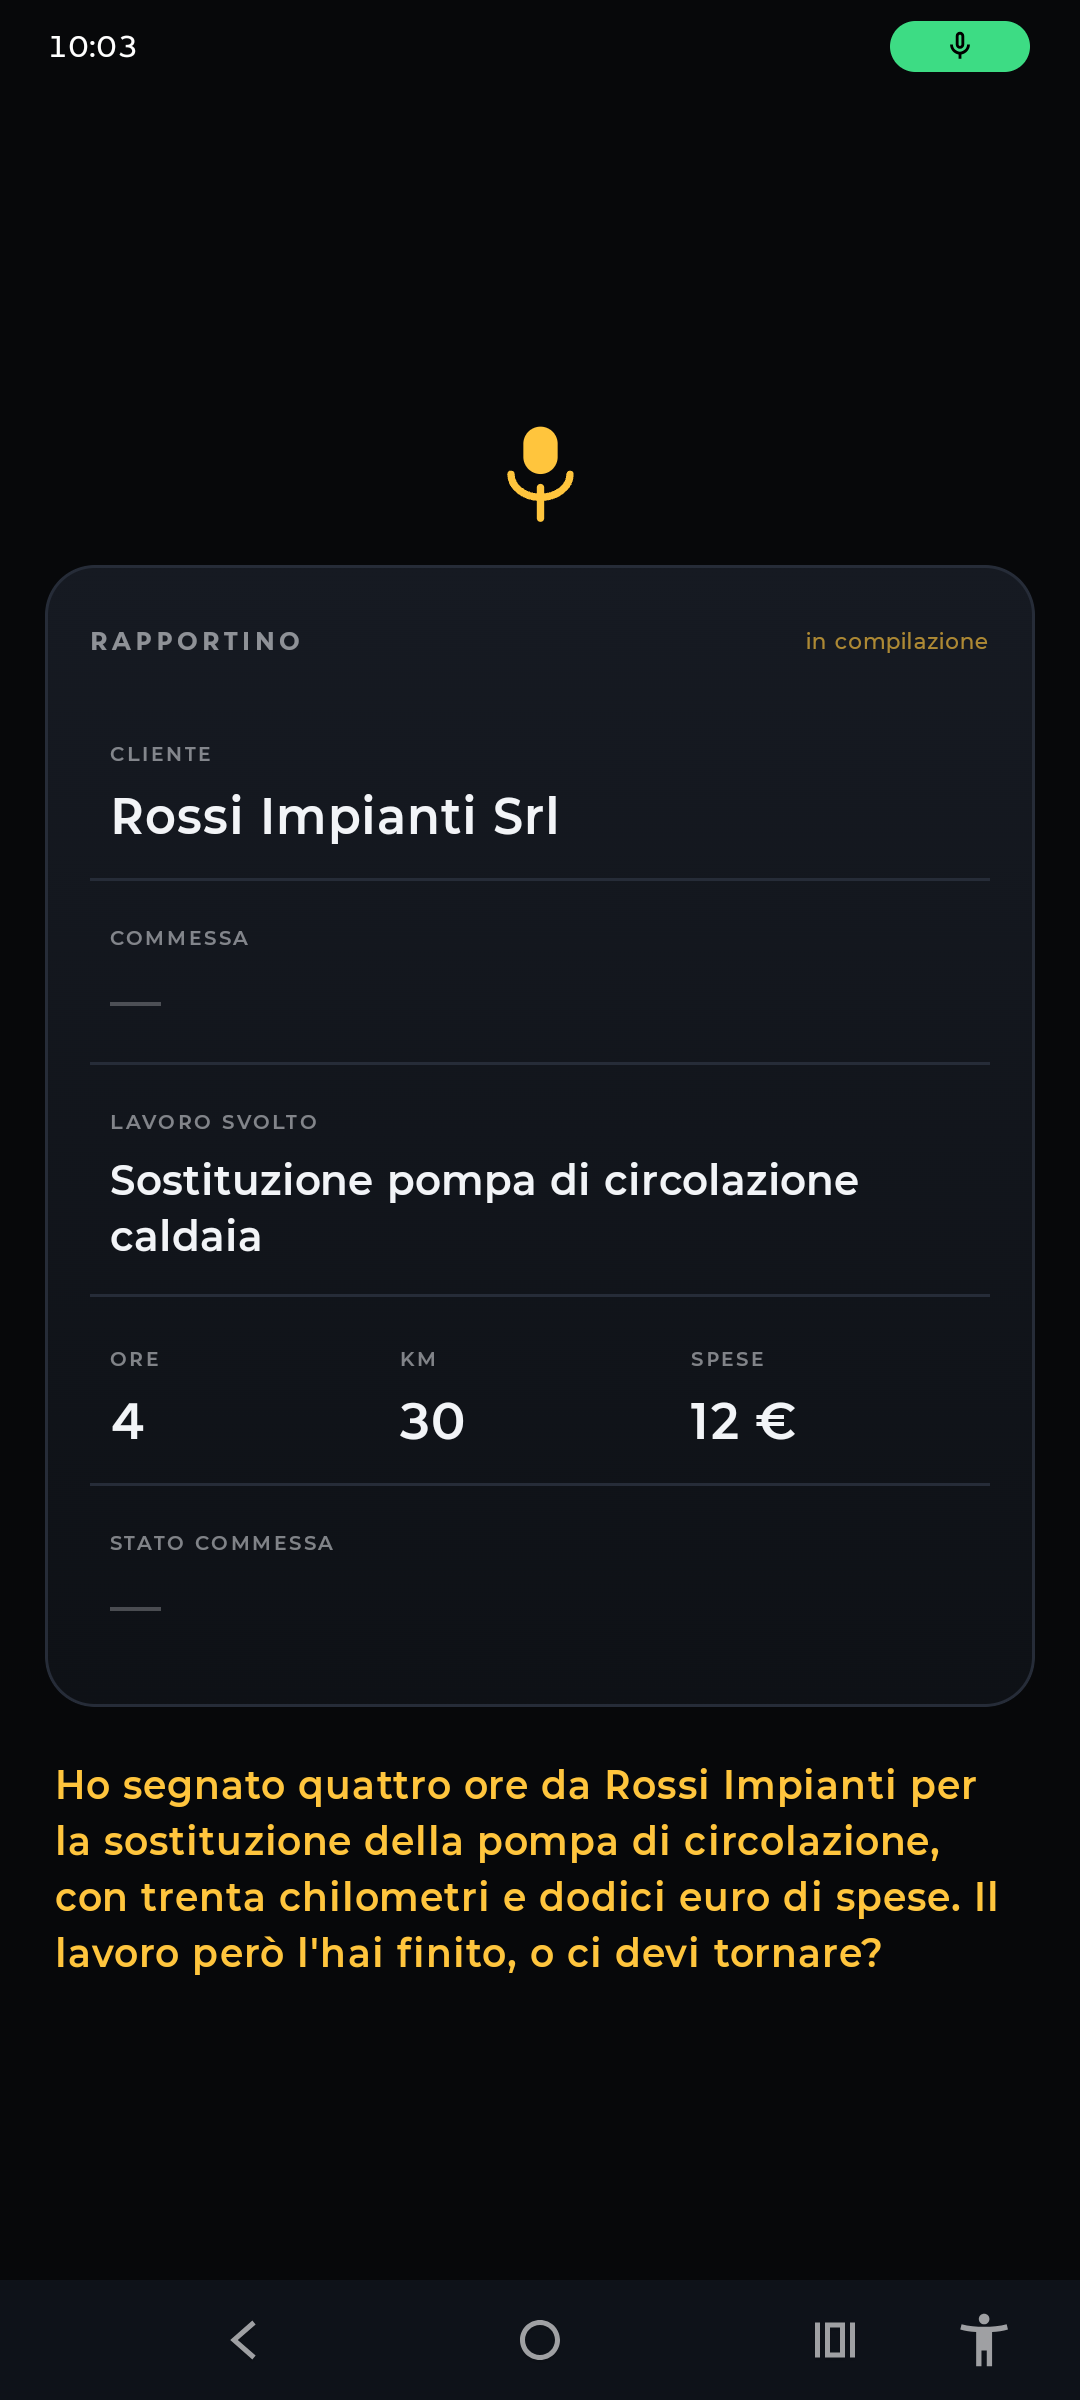
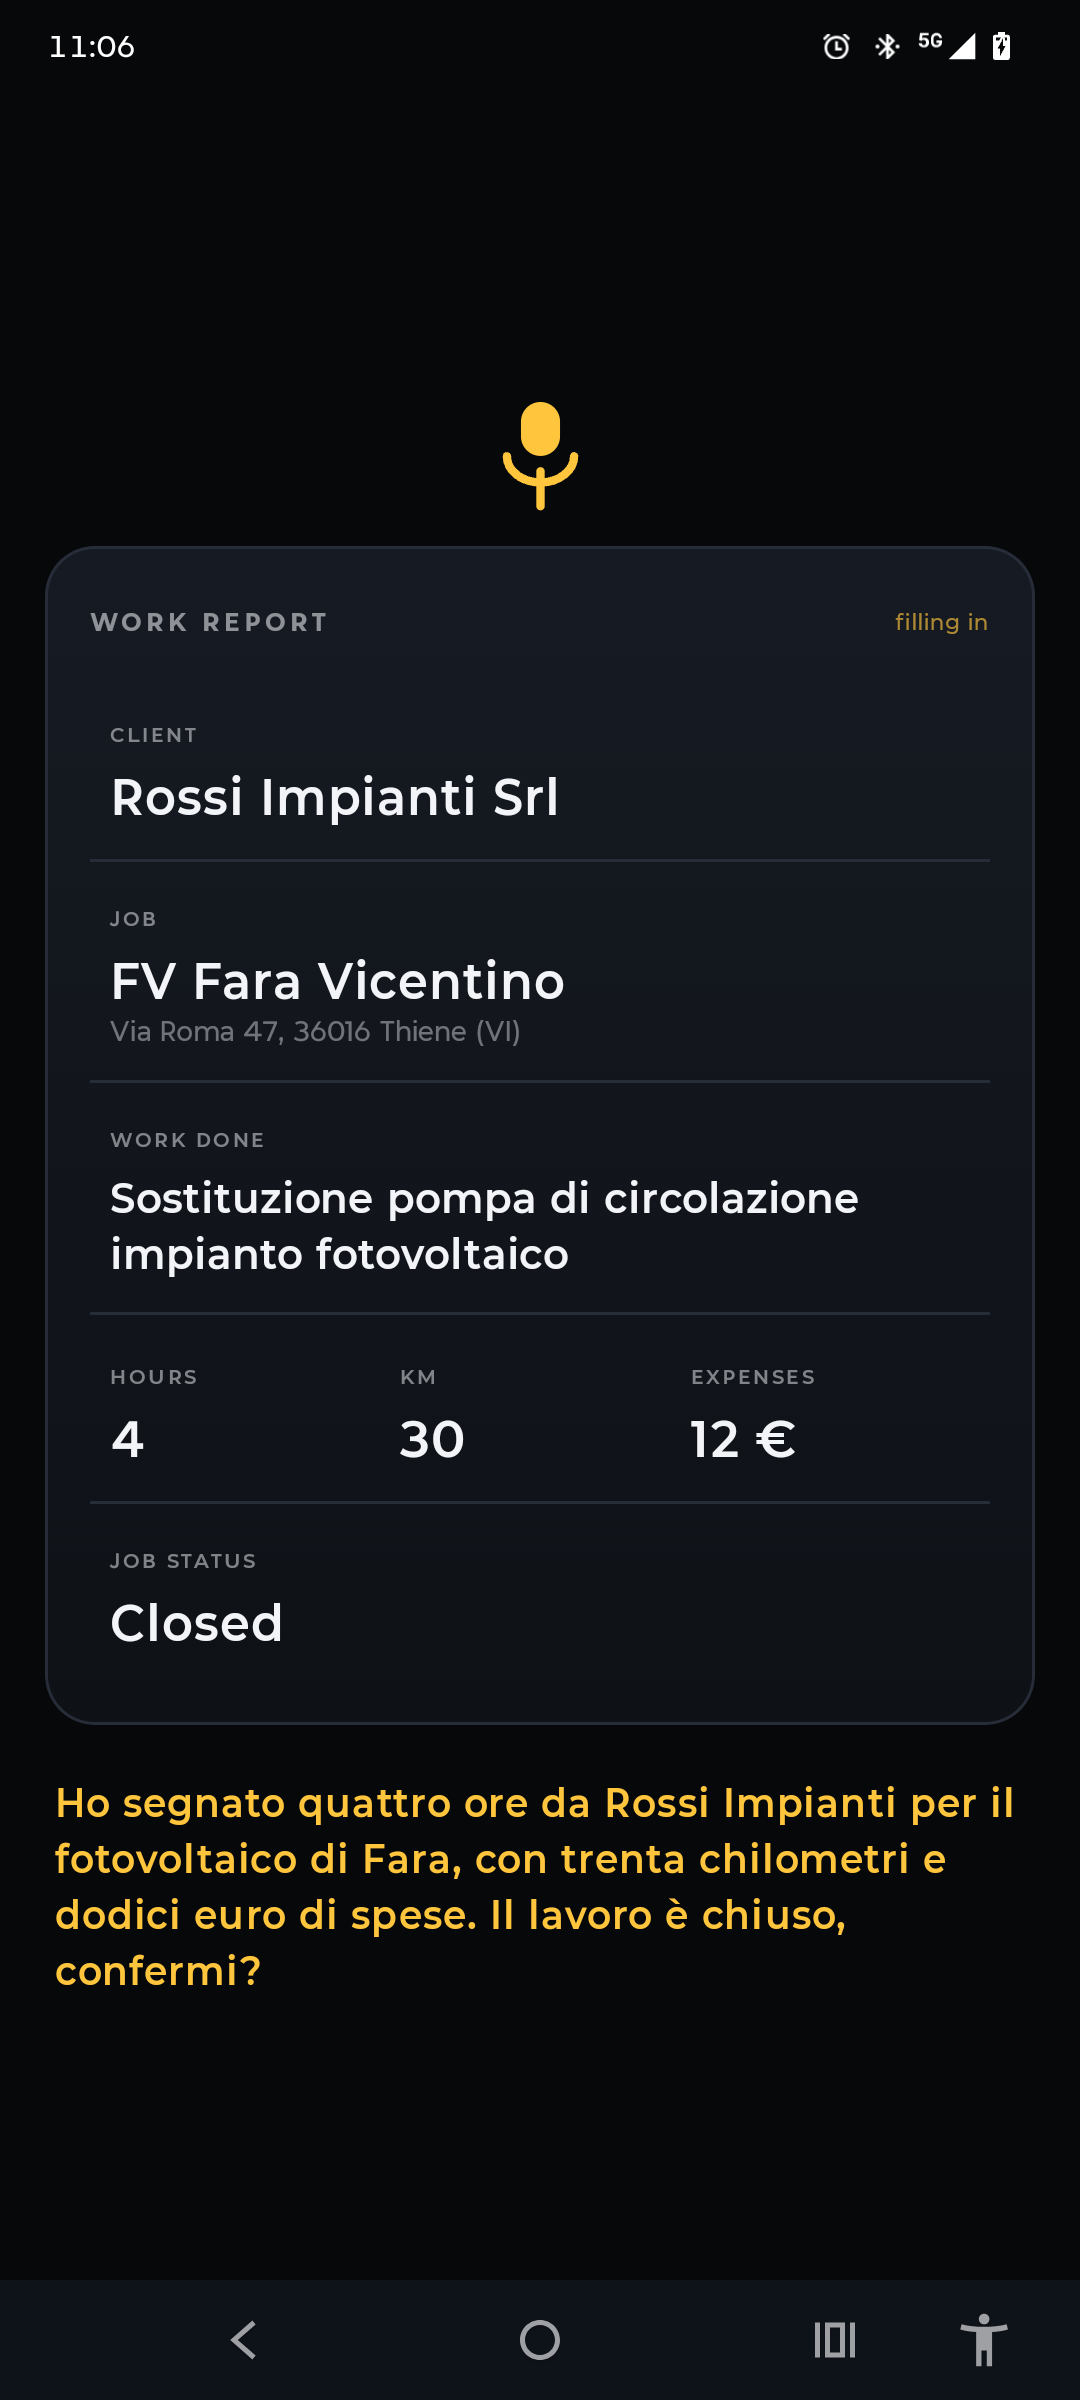
Never fall back on the nearest job, and read the card in English
Two things.

The model, when the job a technician names is not in the list, sometimes
settled for the closest one that was. That is the worst mistake it can
make, because it is invisible: nobody is looking at the screen, they hear
ok and move on, and at the end of the month those hours sit against a job
they never went to.

So the model now also reports commessaDetta, the job in the technician's
own words, and the code checks it shares a word with the job that was
chosen. Boiler maintenance and FV Fara Vicentino share nothing, so that is
a new job and it gets opened and announced. The photovoltaic at Fara and
FV Fara Vicentino share Fara, so that is the same job and nothing happens.
Opening it beats asking: new jobs turn up constantly and a question every
time is a question too many, and cancelling by voice already works.

Second, the card labels now live in strings.xml with an English
translation, so the report reads WORK REPORT, CLIENT, JOB, HOURS on an
English phone. Only the labels. Wisper still speaks Italian and the
dictation stays pinned to it-IT in code, because the technicians it was
built for speak Italian and the phone language should not change what
comes out of the speaker.

Screenshots retaken in English.

diff --git a/app/src/main/java/eu/stgm/wisper/GiroWisper.kt b/app/src/main/java/eu/stgm/wisper/GiroWisper.kt
@@ -522,6 +522,20 @@ class GiroWisper(
                 if (turnoDiChiusura) risposta.dati.copy(statoCommessa = null)
                 else risposta.dati
             val commessaPrima = _rapportino.value.commessa
+
+            // Il modello, quando non trova il lavoro che gli hai nominato, a
+            // volte ripiega sulla commessa piu' simile fra quelle aperte. Se
+            // le parole del tecnico e quella commessa non hanno niente in
+            // comune, quel lavoro e' nuovo e va aperto: non si accetta il
+            // ripiego.
+            val ripiego = commessaDiRipiego(patch, commessaPrima, risposta.commessaDetta)
+            if (ripiego != null) {
+                _rapportino.value = _rapportino.value.aggiorna(patch.copy(commessa = null))
+                registro("commessa_ripiego_rifiutato", ripiego)
+                creaCommessa(risposta.copy(nuovoNome = ripiego, frase = ""))
+                return@launch
+            }
+
             _rapportino.value = _rapportino.value.aggiorna(patch)
 
             when (risposta.azione) {
@@ -607,7 +621,14 @@ class GiroWisper(
             _rapportino.value = _rapportino.value.aggiorna(Rapportino(commessa = creata.id))
             registro("commessa_creata", "${creata.id} ${creata.descrizione}")
             annunciate += "${creata.descrizione} come nuova commessa"
-            rispondi("Ok, aggiungo ${creata.descrizione} come nuova commessa. ${risposta.frase}") {
+            // La coda della frase la porta il modello, tranne quando e' stato
+            // proprio lui a sbagliare commessa: in quel caso il suo seguito
+            // nomina il lavoro che avevamo appena scartato, e ci si sentirebbe
+            // dire due nomi diversi nella stessa frase. Allora la scriviamo noi.
+            val coda = risposta.frase.trim().ifBlank {
+                _rapportino.value.domandaSuCosaManca()?.let { "$it." } ?: "Altro, o salvo?"
+            }
+            rispondi("Ok, aggiungo ${creata.descrizione} come nuova commessa. $coda") {
                 ascolta()
             }
         } catch (e: Exception) {
@@ -767,6 +788,47 @@ class GiroWisper(
                 registro("commessa_non_aggiornata", e.message ?: "sconosciuto")
             }
         }
+    }
+
+    /**
+     * La descrizione da aprire come commessa nuova, quando il modello ha
+     * ripiegato su una gia' esistente che non c'entra. Null se e' tutto a posto.
+     *
+     * IL CASO, visto sul telefono l'08/08. Dicendo "la commessa e' la
+     * manutenzione della caldaia", che nel foglio non c'e', il modello ha
+     * scritto M001, cioe' FV Fara Vicentino, l'unica aperta per quel cliente.
+     * E' il tipo di errore peggiore che possa fare, perche' e' invisibile: il
+     * tecnico non guarda lo schermo, sente "ok" e va avanti, e a fine mese
+     * quelle ore risultano su un lavoro dove non ha mai messo piede.
+     *
+     * COME SI RICONOSCE. Non serve capire il senso: bastano le parole. Il
+     * modello riporta in "commessaDetta" come il tecnico ha chiamato il lavoro,
+     * e si guarda se quelle parole e la descrizione della commessa scelta ne
+     * hanno almeno una in comune. "Quella dei pannelli a Fara" e "FV Fara
+     * Vicentino" condividono Fara: e' la stessa. "Manutenzione della caldaia" e
+     * "FV Fara Vicentino" non condividono niente: e' un altro lavoro.
+     *
+     * COSA SI FA. Si apre la commessa nuova, dicendolo ad alta voce. Non si
+     * chiede: chiedere vuol dire un turno in piu' a ogni lavoro nuovo, e i
+     * lavori nuovi capitano di continuo. Se ha sbagliato lui, dice "cancella
+     * tutto" e si ricomincia.
+     *
+     * Vale solo quando la commessa CAMBIA in questo turno e solo se il tecnico
+     * l'ha davvero nominata: se non ha detto niente sul lavoro, il modello che
+     * mette l'unica commessa aperta del cliente sta facendo la cosa giusta.
+     */
+    private fun commessaDiRipiego(
+        patch: Rapportino,
+        prima: String?,
+        detta: String?,
+    ): String? {
+        val codice = patch.commessa?.trim()?.takeIf { it.isNotBlank() } ?: return null
+        if (codice == prima) return null
+        val nome = detta?.trim()?.takeIf { it.isNotBlank() } ?: return null
+        // Se il codice non esiste ci pensa gia' la creazione automatica al
+        // salvataggio: qui interessa solo il ripiego su una commessa VERA.
+        val vera = _anagrafiche.value.descrizioneCommessa(codice) ?: return null
+        return if (parlaDi(nome, vera)) null else nome
     }
 
     /**

diff --git a/app/src/main/java/eu/stgm/wisper/ui/FormRapportino.kt b/app/src/main/java/eu/stgm/wisper/ui/FormRapportino.kt
@@ -25,10 +25,13 @@ import androidx.compose.ui.Modifier
 import androidx.compose.ui.draw.clip
 import androidx.compose.ui.graphics.Brush
 import androidx.compose.ui.graphics.Color
+import androidx.compose.ui.res.stringResource
 import androidx.compose.ui.text.font.FontWeight
 import androidx.compose.ui.unit.dp
 import androidx.compose.ui.unit.sp
+import eu.stgm.wisper.R
 import eu.stgm.wisper.rapportino.Rapportino
+import eu.stgm.wisper.rapportino.StatoCommessa
 import kotlinx.coroutines.delay
 
 /**
@@ -83,14 +86,14 @@ fun FormRapportino(
                 horizontalArrangement = Arrangement.SpaceBetween,
             ) {
                 Text(
-                    "RAPPORTINO",
+                    stringResource(R.string.scheda_titolo),
                     color = Bianco.copy(alpha = 0.55f),
                     fontSize = 12.sp,
                     fontWeight = FontWeight.Bold,
                     letterSpacing = 2.4.sp,
                 )
                 Text(
-                    "in compilazione",
+                    stringResource(R.string.scheda_in_corso),
                     color = Giallo.copy(alpha = 0.65f),
                     fontSize = 11.sp,
                     letterSpacing = 0.6.sp,
@@ -99,33 +102,52 @@ fun FormRapportino(
 
             Spacer(Modifier.height(16.dp))
 
-            RigaCampo("Cliente", rapportino.cliente)
+            RigaCampo(stringResource(R.string.campo_cliente), rapportino.cliente)
             Divisore()
             RigaCampo(
-                "Commessa",
+                stringResource(R.string.campo_commessa),
                 commessaLeggibile ?: rapportino.commessa,
                 sotto = indirizzoCommessa,
             )
             Divisore()
-            RigaCampo("Lavoro svolto", rapportino.descrizione, alto = true)
+            RigaCampo(
+                stringResource(R.string.campo_lavoro),
+                rapportino.descrizione,
+                alto = true,
+            )
             Divisore()
 
             Row(
                 modifier = Modifier.fillMaxWidth().padding(top = 2.dp),
                 horizontalArrangement = Arrangement.spacedBy(10.dp),
             ) {
-                RigaCampo("Ore", rapportino.ore?.let(::formatta), modifier = Modifier.weight(1f))
-                RigaCampo("Km", rapportino.km?.let(::formatta), modifier = Modifier.weight(1f))
                 RigaCampo(
-                    "Spese",
+                    stringResource(R.string.campo_ore),
+                    rapportino.ore?.let(::formatta),
+                    modifier = Modifier.weight(1f),
+                )
+                RigaCampo(
+                    stringResource(R.string.campo_km),
+                    rapportino.km?.let(::formatta),
+                    modifier = Modifier.weight(1f),
+                )
+                RigaCampo(
+                    stringResource(R.string.campo_spese),
                     rapportino.spese?.let { "${formatta(it)} €" },
                     modifier = Modifier.weight(1.2f),
                 )
             }
             Divisore()
+            // Lo stato si mostra tradotto, ma nel foglio ci va sempre la parola
+            // italiana: la colonna la legge chi lavora in ufficio, non chi ha
+            // il telefono in inglese.
             RigaCampo(
-                "Stato commessa",
-                rapportino.statoCommessa?.parlato?.replaceFirstChar { it.uppercase() },
+                stringResource(R.string.campo_stato),
+                when (rapportino.statoCommessa) {
+                    StatoCommessa.APERTA -> stringResource(R.string.stato_aperta)
+                    StatoCommessa.CHIUSA -> stringResource(R.string.stato_chiusa)
+                    null -> null
+                },
             )
         }
 

diff --git a/app/src/main/java/eu/stgm/wisper/cervello/CervelloGemini.kt b/app/src/main/java/eu/stgm/wisper/cervello/CervelloGemini.kt
@@ -28,6 +28,17 @@ data class RispostaWisper(
     val dati: Rapportino,
     /** Nome del cliente o descrizione della commessa da creare. */
     val nuovoNome: String? = null,
+    /**
+     * Come il tecnico ha chiamato la commessa in questo turno, parola per
+     * parola, oppure null se non l'ha nominata.
+     *
+     * Non finisce da nessuna parte: serve solo a permettere al codice di
+     * accorgersi quando il modello ha scelto una commessa che con quelle
+     * parole non c'entra niente. Il modello e' bravo a riportare cosa e' stato
+     * detto ed e' incostante nel decidere: quindi qui riporta, e decide il
+     * codice.
+     */
+    val commessaDetta: String? = null,
 )
 
 /**
@@ -171,6 +182,8 @@ class CervelloGemini(
             frase = perLaVoce(o.optString("frase").ifBlank { "Fatto." }),
             nuovoNome = if (o.isNull("nuovoNome")) null
             else o.optString("nuovoNome").takeIf { it.isNotBlank() },
+            commessaDetta = if (o.isNull("commessaDetta")) null
+            else o.optString("commessaDetta").takeIf { it.isNotBlank() },
             dati = Rapportino(
                 cliente = d.testo("cliente"),
                 commessa = d.testo("commessa"),
@@ -355,6 +368,17 @@ class CervelloGemini(
             Scriverlo soltanto nel campo lascerebbe il foglio senza quel cliente, e domani
             non lo riconosceresti di nuovo.
 
+            NON RIPIEGARE MAI SULLA COMMESSA PIU' SIMILE. Se nomina un lavoro che fra
+            quelli aperti non c'e', quello e' un lavoro NUOVO: "crea_commessa". Mettergli
+            le ore su una commessa diversa e gia' aperta e' l'errore peggiore che tu possa
+            fare, perche' e' invisibile: lui non guarda lo schermo, sente "ok" e va avanti,
+            e a fine mese quelle ore risultano su un lavoro dove non e' mai stato.
+
+            "commessaDetta": come ha chiamato LUI il lavoro, con le sue parole esatte
+            ("la manutenzione della caldaia", "quella dei tubi"), oppure null se non l'ha
+            nominato. Non e' un campo del rapportino e non finisce nel foglio: serve a
+            controllare che la commessa che hai scelto sia davvero quella di cui parlava.
+
             ANAGRAFICHE NUOVE, DETTATE A VOCE
             - "crea_cliente": lui chiede di aggiungere un cliente che non e' in elenco
               ("crea un nuovo cliente Bianchi Termoidraulica", "aggiungi il cliente...").
@@ -423,6 +447,7 @@ class CervelloGemini(
                 "azione": {"type": "string", "enum": ["aggiorna", "conferma", "salva", "annulla", "crea_cliente", "crea_commessa"]},
                 "frase":  {"type": "string"},
                 "nuovoNome": {"type": "string", "nullable": true},
+                "commessaDetta": {"type": "string", "nullable": true},
                 "dati": {
                   "type": "object",
                   "properties": {

diff --git a/README.md b/README.md
@@ -7,10 +7,13 @@ row lands in the company spreadsheet.
 
 It speaks Italian, because that is who it was built for.
 
-| At rest | Filling in | Job resolved |
+| At rest | Half a sentence in | The whole day |
 |---|---|---|
-| ![](docs/immagini/1-ascolto.png) | ![](docs/immagini/2-scheda.png) | ![](docs/immagini/3-riepilogo.png) |
-| Waiting for the wake word. Nothing has been touched. | The fields appear while you talk. A dash means Wisper does not know yet, and it will ask. | Everything it has, including which job and where. |
+| ![](docs/immagini/1-ascolto.png) | ![](docs/immagini/3-domanda.png) | ![](docs/immagini/2-scheda.png) |
+| Waiting for the wake word. Nothing has been touched. | A dash is a field Wisper does not know yet, and it asks for one thing at a time. | Client, job, address, hours, kilometres, expenses, and whether the job closes. |
+
+The labels follow the phone's language. Wisper still speaks Italian, because
+the technicians it was built for do.
 
 ## Why it exists
 
